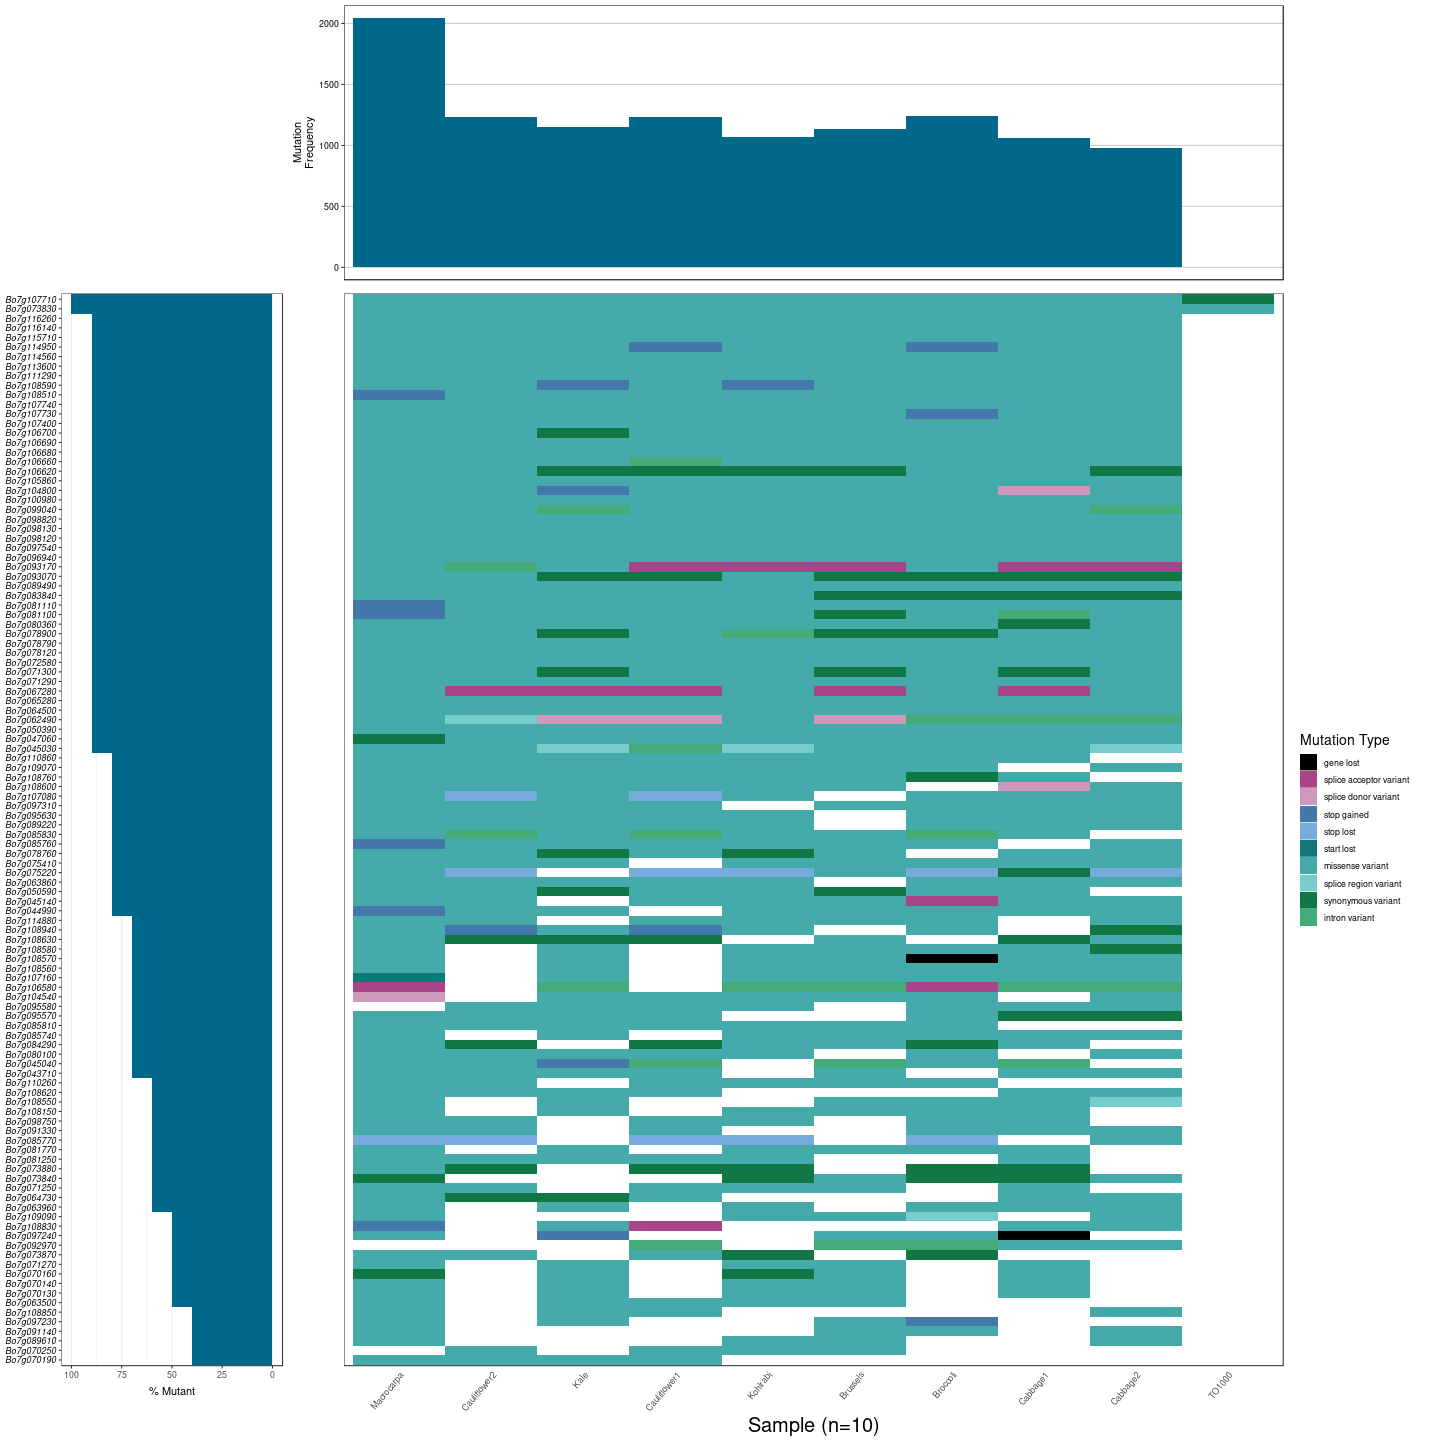
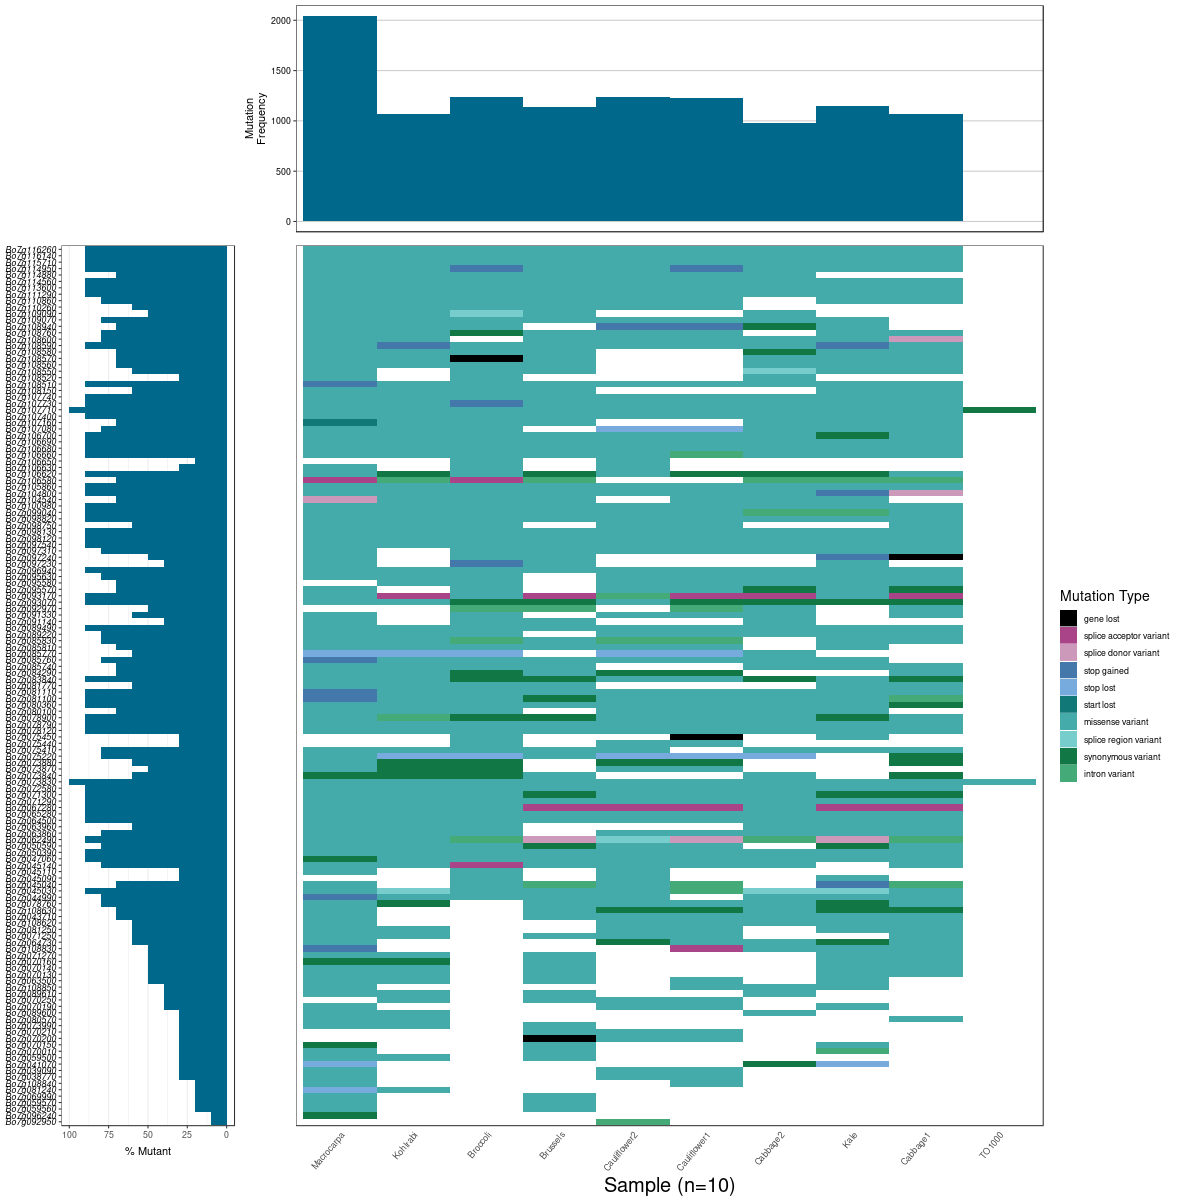
Update plot

Changed region(s): [[0.185, 0.0, 0.9867, 1.0], [0.0, 0.185, 0.2158, 0.9867]]

diff --git a/Waterfall/README.md b/Waterfall/README.md
@@ -225,11 +225,14 @@ for (i in list.files('Plot', full.names=T)){
     print(paste0('Plotting in ', i))
     filesdir <- i
     paste0(filesdir, '*vep')
+    genes <- unique(read.table(paste0(filesdir, "/Broccoli.vep"), stringsAsFactors=FALSE)$V4)
+
     my_vep <- Sys.glob(paste0(filesdir, "/*vep"))
     vepObject <- VEP(my_vep)
 
     png(paste0(filesdir, 'test.png'), height=480*3, width=480*3)
-    drawPlot(Waterfall(vepObject,recurrence = 0.4, mutationHierarchy=mymutations ))
+    drawPlot(Waterfall(vepObject,recurrence = 0.0, mutationHierarchy=mymutations, geneOrder=genes))
+
     dev.off()
   }
 }
